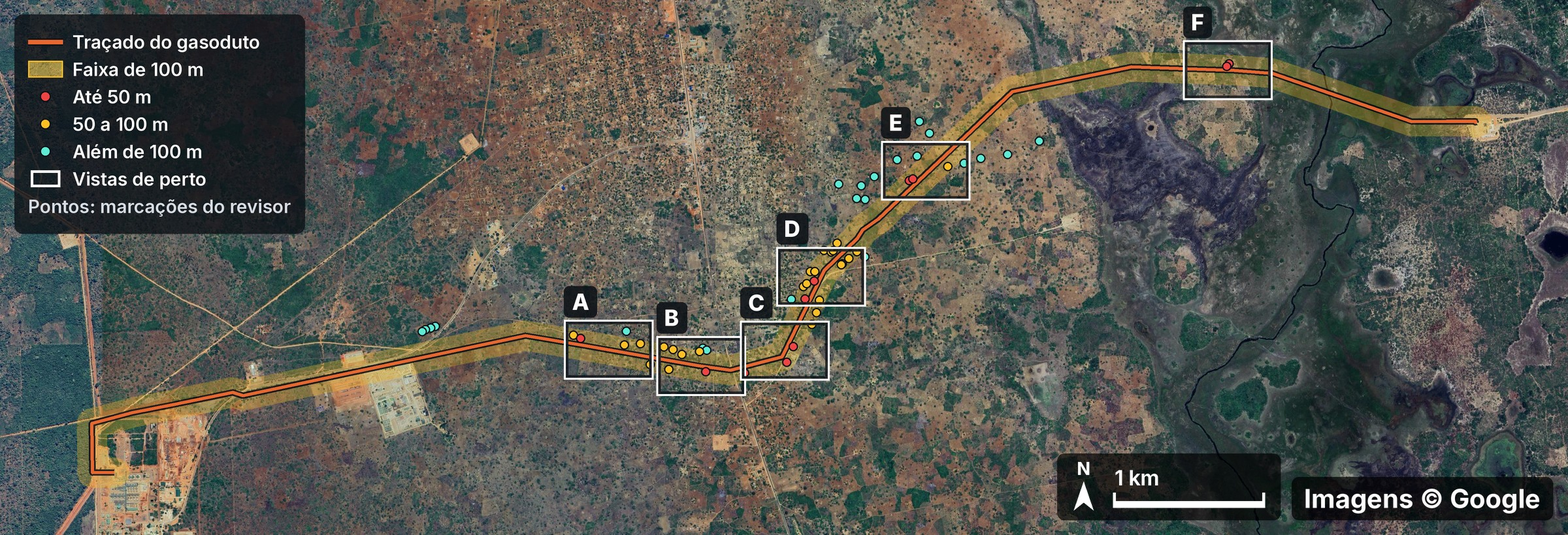
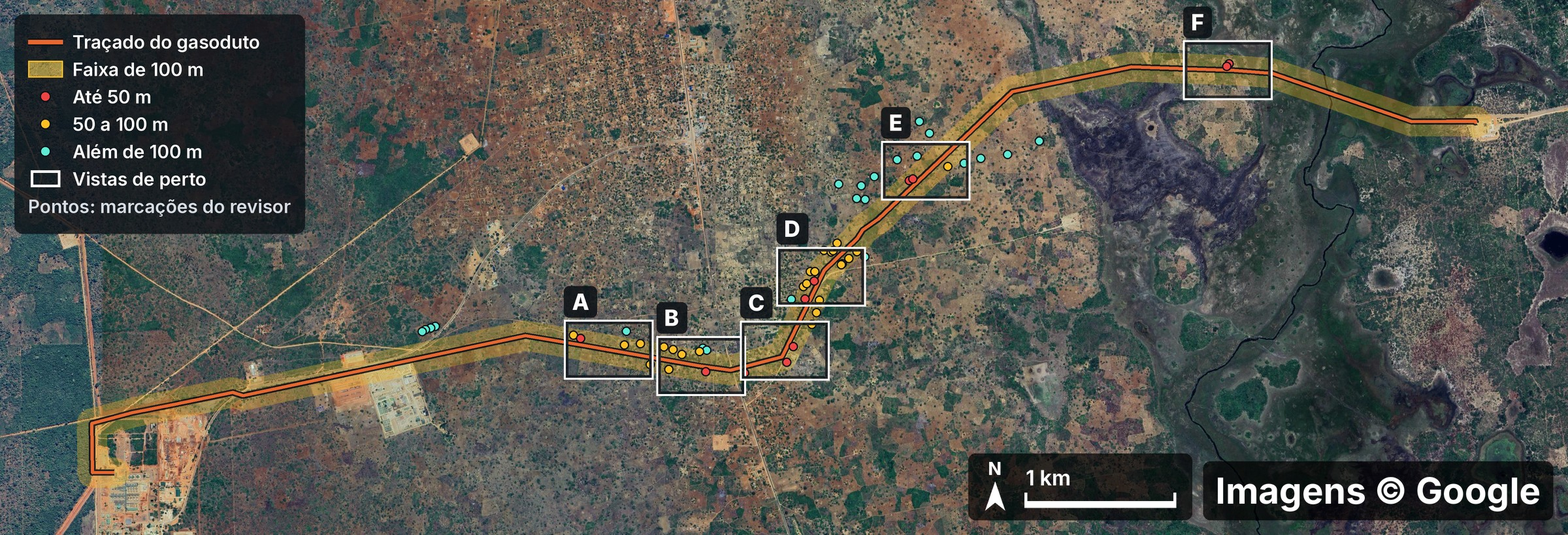
Overview: draw the attribution at the close-ups' size
On a phone the overview is shown as wide as a close-up (358 px), where its
40 px attribution came out at 6 px. It now uses 55 px like the close-ups
(about 8 px on a phone, 26 px on the desktop overview). The close-ups are
byte-identical; the run stays deterministic.

Claude-Session: https://claude.ai/code/session_014z8TRp1QQxSFMs2jRhJjuC

Changed region(s): [[0.5938, 0.8232, 1.0, 0.9756]]

diff --git a/site/tools/make_samples.py b/site/tools/make_samples.py
@@ -676,18 +676,19 @@ def g_panel(d, S, x0, y0, rows, title=None, fs=30, draw=True, anchor="left"):
     return box_
 
 
-def g_furniture(d, S, W, H, lang, scale_m, ppm, fs=30, scale_right=False):
+def g_furniture(d, S, W, H, lang, scale_m, ppm, fs=30, scale_right=False, att_px=None):
     """North arrow and scale bar (bottom left, or left of the attribution) and the attribution (bottom
-    right), on dark pills. The attribution is set a size larger than the rest, so it stays legible where
-    the image is shown small."""
+    right), on dark pills. The attribution is set a size larger than the rest (att_px image pixels,
+    default 1.25 fs), so it stays legible where the image is shown small."""
     L = GSTR[lang]
     u = fs / 30
     q = lambda v: round(v * u) * S
-    f, fa = font(fs * S, 650), font(round(fs * 1.25) * S, 700)
+    att_px = att_px or round(fs * 1.25)
+    f, fa = font(fs * S, 650), font(att_px * S, 700)
     x1, y1 = W * S - q(22), H * S - q(22)
     # attribution
     t = L["attribution"]
-    ph = round(fs * 2.05) * S
+    ph = round(att_px * 1.64) * S
     tw = d.textlength(t, font=fa)
     boxes = [(x1 - tw - q(36), y1 - ph, x1, y1)]
     d.rounded_rectangle(boxes[0], radius=q(10), fill=(0, 0, 0, 185))
@@ -851,7 +852,8 @@ def g_overview(tiles, line, marks, frames, lang):
     boxes = [g_panel(d, S, 22 * S, 22 * S, [("route", L["route"]), ("band", L["band"]), ("dot-a", L["b50"]),
                                             ("dot-b", L["b100"]), ("dot-c", L["beyond"]), ("frame", L["frames"]),
                                             ("note", L["dot_key"])], fs=28)]
-    boxes += g_furniture(d, S, W, H, lang, 1000, W / ((right - left) / k), fs=32, scale_right=True)
+    # The attribution matches the close-ups' (55 px): the overview is shown at the same width on phones.
+    boxes += g_furniture(d, S, W, H, lang, 1000, W / ((right - left) / k), fs=32, scale_right=True, att_px=55)
     for b_ in boxes:
         if g_hits(b_, circles, 6 * S):
             raise SystemExit("overview: a mark or a close-up frame sits under the legend, the scale bar or the attribution")
